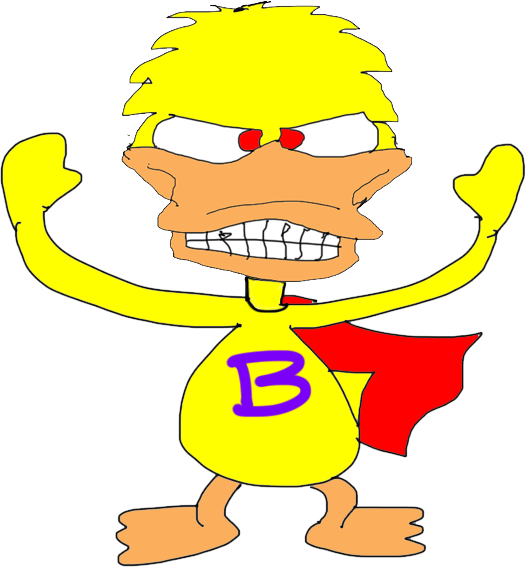
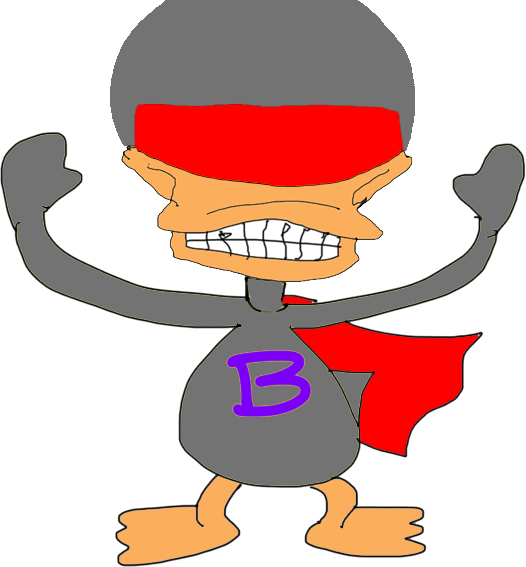
Strung game together, added graphics for level 3

diff --git a/Layers/BHJXLevel3Scene.m b/Layers/BHJXLevel3Scene.m
@@ -8,11 +8,12 @@
 
 #import "BHJXLevel3Scene.h"
 #import "BHJXGameOverScene.h"
-#import "BHJXVictoryScene.h"
+#import "BHJXEndingCutscene.h"
 @import AVFoundation;
 
 #define kNumBoulders 10
 #define kNumLasers 5
+#define kNumImages 2
 
 typedef enum {
   kEndReasonLose,
@@ -31,6 +32,9 @@ static NSString* playerCategoryName = @"player";
     
     SKLabelNode *_livesLabel;
     SKLabelNode *_scoreLabel;
+    
+    NSArray *_playerFlickerFrames;
+    NSMutableArray *_boulders;
 
     NSMutableArray *_boulders1;
     NSMutableArray *_boulders2;
@@ -57,15 +61,31 @@ static NSString* playerCategoryName = @"player";
 
 -(id)initWithSize:(CGSize)size {
     if (self = [super initWithSize:size]) {
+        
+        //Setup flickering
+        
+        NSMutableArray *playerFlickerFrames = [NSMutableArray array];
+        SKTextureAtlas *playerAnimatedAtlas = [SKTextureAtlas atlasNamed:@"Player"];
+        
+        for (int i=1; i <= kNumImages; i++){
+            NSString *textureName = [NSString stringWithFormat:@"Player%d", i];
+            SKTexture *temp = [playerAnimatedAtlas textureNamed:textureName];
+            [playerFlickerFrames addObject:temp];
+        }
+        _playerFlickerFrames = playerFlickerFrames;
+
         //Initialize background
-        _background = [SKSpriteNode spriteNodeWithImageNamed:@"Volcanobackground.png"];
+        _background = [SKSpriteNode spriteNodeWithImageNamed:@"coreBackground.png"];
         _background.position = CGPointMake(CGRectGetMidX(self.frame), CGRectGetMidY(self.frame));
         [self addChild:_background];
     
 
 
         //Create player and place at bottom of screen
-        _player = [[SKSpriteNode alloc] initWithImageNamed:@"Player.png"];
+        
+        SKTexture *temp = _playerFlickerFrames[0];
+        
+        _player = [SKSpriteNode spriteNodeWithTexture:temp];
         _player.name = playerCategoryName;
         _player.position = CGPointMake(CGRectGetMidX(self.frame), CGRectGetMidY(self.frame)*0.1);
         [self addChild:_player];
@@ -88,7 +108,7 @@ static NSString* playerCategoryName = @"player";
         //Setup the boulders
         _boulders1 = [[NSMutableArray alloc] initWithCapacity:kNumBoulders];
         for (int i = 0; i < kNumBoulders; ++i) {
-            SKSpriteNode *boulder1 = [SKSpriteNode spriteNodeWithImageNamed:@"Boulder.png"];
+            SKSpriteNode *boulder1 = [SKSpriteNode spriteNodeWithImageNamed:@"coreChunk.png"];
             boulder1.hidden = YES;
             [boulder1 setXScale:0.5];
             [boulder1 setYScale:0.5];
@@ -98,7 +118,7 @@ static NSString* playerCategoryName = @"player";
       
         _boulders2 = [[NSMutableArray alloc] initWithCapacity:kNumBoulders];
         for (int i = 0; i < kNumBoulders; ++i) {
-            SKSpriteNode *boulder2 = [SKSpriteNode spriteNodeWithImageNamed:@"Boulder.png"];
+            SKSpriteNode *boulder2 = [SKSpriteNode spriteNodeWithImageNamed:@"coreChunk.png"];
             boulder2.hidden = YES;
             [boulder2 setXScale:0.5];
             [boulder2 setYScale:0.5];
@@ -162,6 +182,7 @@ static NSString* playerCategoryName = @"player";
     for (SKSpriteNode *laser in _playerLasers) {
         laser.hidden = YES;
     }
+    [self flickering];
 }
 
 -(void)touchesBegan:(NSSet*)touches withEvent:(UIEvent*)event {
@@ -383,7 +404,7 @@ static NSString* playerCategoryName = @"player";
         _gameOverScene = [[BHJXGameOverScene alloc] initWithSize:self.size score:_score];
         [self.view presentScene:_gameOverScene];
     } else if (endReason == kEndReasonWin){
-        _victoryScene = [[BHJXVictoryScene alloc] initWithSize:self.size score:_score];
+        _victoryScene = [[BHJXEndingCutscene alloc] initWithSize:self.size];
         [self.view presentScene:_victoryScene];
     }
 }
@@ -404,6 +425,18 @@ static NSString* playerCategoryName = @"player";
     [_backgroundAudioPlayer setVolume:1.0];
     [_backgroundAudioPlayer play];
 }
+
+-(void)flickering
+{
+    //This is our general runAction method to make our player flicker.
+    [_player runAction:[SKAction repeatActionForever:
+                        [SKAction animateWithTextures:_playerFlickerFrames
+                                         timePerFrame:0.1f
+                                               resize:NO
+                                              restore:YES]] withKey:@"flickeringInPlacePlayer"];
+    return;
+}
+
 
 
 

diff --git a/Layers/BHJXLevel2Scene.m b/Layers/BHJXLevel2Scene.m
@@ -19,7 +19,6 @@ static NSString* playerCategoryName = @"player";
 @implementation BHJXLevel2Scene
 {
     SKSpriteNode *_player;
-    SKSpriteNode *_boudler;
     SKSpriteNode *_background1;
     SKSpriteNode *_background2;
     SKLabelNode *_livesLabel;
@@ -27,7 +26,6 @@ static NSString* playerCategoryName = @"player";
     
     
     NSArray *_playerFlickerFrames;
-//    NSArray *_backgroundFlickerFrames;
     NSMutableArray *_boulders;
     int _nextBoulder;
     double _nextBoulderSpawn;
@@ -44,24 +42,16 @@ static NSString* playerCategoryName = @"player";
 -(id)initWithSize:(CGSize)size {
     if (self = [super initWithSize:size]) {
         //Setup flickering
-//        NSMutableArray *bgFlickerFrames = [NSMutableArray array];
-//        SKTextureAtlas *bgAnimatedAtlas = [SKTextureAtlas atlasNamed:@"Mantle"];
         
         NSMutableArray *playerFlickerFrames = [NSMutableArray array];
         SKTextureAtlas *playerAnimatedAtlas = [SKTextureAtlas atlasNamed:@"Player"];
 
         for (int i=1; i <= kNumImages; i++){
-//            NSString *textureName = [NSString stringWithFormat:@"mantleBackground%d", i];
-//            SKTexture *temp = [bgAnimatedAtlas textureNamed:textureName];
-//            [bgFlickerFrames addObject:temp];
             NSString *textureName = [NSString stringWithFormat:@"Player%d", i];
             SKTexture *temp = [playerAnimatedAtlas textureNamed:textureName];
             [playerFlickerFrames addObject:temp];
         }
         _playerFlickerFrames = playerFlickerFrames;
-//        _backgroundFlickerFrames = bgFlickerFrames;
-//        
-//        SKTexture *temp = _backgroundFlickerFrames[0];
 
         
         //Initialize scrolling background
@@ -301,17 +291,6 @@ static NSString* playerCategoryName = @"player";
                                          timePerFrame:0.1f
                                                resize:NO
                                               restore:YES]] withKey:@"flickeringInPlacePlayer"];
-//    [_background1 runAction:[SKAction repeatActionForever:
-//                             [SKAction animateWithTextures:_backgroundFlickerFrames
-//                                              timePerFrame:0.1f
-//                                                    resize:NO
-//                                                   restore:YES]] withKey:@"flickeringInPlaceBackground"];
-//    [_background2 runAction:[SKAction repeatActionForever:
-//                             [SKAction animateWithTextures:_backgroundFlickerFrames
-//                                              timePerFrame:0.1f
-//                                                    resize:NO
-//                                                   restore:YES]] withKey:@"flickeringInPlaceBackground"];
-//    
     return;
 }
 

diff --git a/Layers/BHJXStartMenuScene.m b/Layers/BHJXStartMenuScene.m
@@ -7,7 +7,7 @@
 //
 
 #import "BHJXStartMenuScene.h"
-#import "BHJXLevel2Scene.h"
+#import "BHJXLevel3Scene.h"
 
 @implementation BHJXStartMenuScene {
     SKSpriteNode *_background;
@@ -53,7 +53,7 @@
     if ([node.name isEqualToString:@"AdventureLabel"]) {
         SKTransition *reveal = [SKTransition fadeWithDuration:3];
         
-        BHJXLevel2Scene *scene = [BHJXLevel2Scene sceneWithSize:self.view.bounds.size];
+        BHJXLevel3Scene *scene = [BHJXLevel3Scene sceneWithSize:self.view.bounds.size];
         scene.scaleMode = SKSceneScaleModeAspectFill;
         [self.view presentScene:scene transition:reveal];
                           

diff --git a/Layers/BHJXVictoryScene.m b/Layers/BHJXVictoryScene.m
@@ -11,7 +11,7 @@
 
 @implementation BHJXVictoryScene
 
--(id)initWithSize:(CGSize)size score:(int)score {
+-(id)initWithSize:(CGSize)size {
     if (self = [super initWithSize:size]) {
         //You won!
         NSString *message = @"You Won!";

diff --git a/Layers/BHJXVictoryScene.h b/Layers/BHJXVictoryScene.h
@@ -10,6 +10,6 @@
 
 @interface BHJXVictoryScene : SKScene
 
--(id)initWithSize:(CGSize)size score:(int)score;
+-(id)initWithSize:(CGSize)size;
 
 @end
